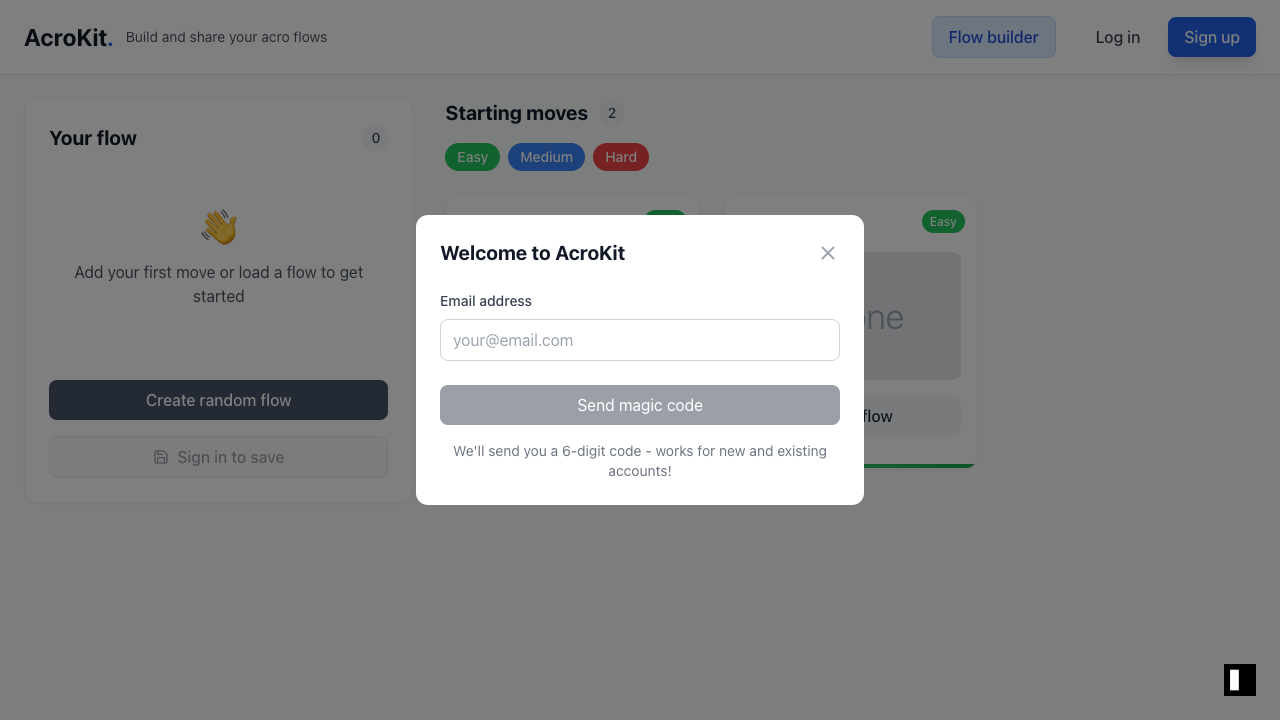
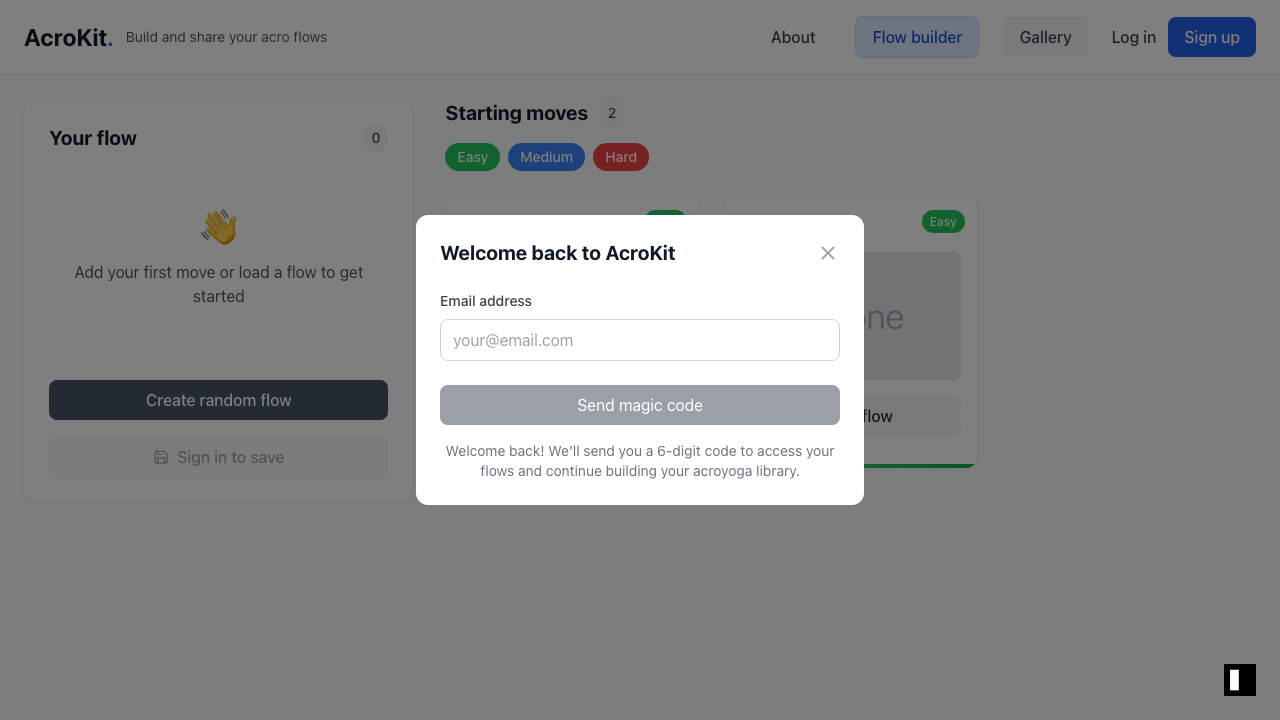
Update login modal copy to be more welcoming and informative (#14)
* Update login modal copy to be more welcoming and informative

- Changed header from "Welcome to AcroKit" to "Welcome back to AcroKit"
- Added benefits copy highlighting flow saving and personal library building
- Addresses user feedback about making login vs signup distinction clearer

Fixes #10

🤖 Generated with [Claude Code](https://claude.ai/code)

* Implement two variants for login modal based on button clicked

- Add mode tracking ('login'  < /dev/null |  'signup') to Header component
- Update LoginModal to accept mode prop and show different copy
- Login mode: "Welcome back to AcroKit" with returning user messaging
- Signup mode: "Join AcroKit" with benefits-focused copy for new users
- Each button now triggers appropriate modal variant

Addresses review feedback requesting separate messaging for login vs signup flows.

🤖 Generated with [Claude Code](https://claude.ai/code)

* Add screenshots of login and signup modal variants

- login-modal.png: Shows "Welcome back to AcroKit" copy for returning users
- signup-modal.png: Shows "Join AcroKit" copy with benefits messaging
- Updated screenshot.js script with new modal configurations

These screenshots demonstrate the two-variant modal system implemented
to address PR review feedback for distinct login vs signup messaging.

🤖 Generated with [Claude Code](https://claude.ai/code)

---------

diff --git a/src/components/Header.tsx b/src/components/Header.tsx
@@ -10,6 +10,7 @@ interface HeaderProps {
 export function Header({ currentPage, onPageChange }: HeaderProps) {
   const { user, signOut } = useAuth()
   const [showLoginModal, setShowLoginModal] = useState(false)
+  const [loginMode, setLoginMode] = useState<'login' | 'signup'>('login')
   const [showUserMenu, setShowUserMenu] = useState(false)
   const mobileMenuRef = useRef<HTMLDivElement>(null)
   const desktopMenuRef = useRef<HTMLDivElement>(null)
@@ -33,6 +34,11 @@ export function Header({ currentPage, onPageChange }: HeaderProps) {
       }
     }
   }, [showUserMenu])
+
+  const openLoginModal = (mode: 'login' | 'signup') => {
+    setLoginMode(mode)
+    setShowLoginModal(true)
+  }
 
   return (
     <>
@@ -79,13 +85,13 @@ export function Header({ currentPage, onPageChange }: HeaderProps) {
             ) : (
               <div className="flex items-center gap-3">
                 <button
-                  onClick={() => setShowLoginModal(true)}
+                  onClick={() => openLoginModal('login')}
                   className="text-gray-700 hover:text-gray-900 font-medium text-sm"
                 >
                   Log in
                 </button>
                 <button
-                  onClick={() => setShowLoginModal(true)}
+                  onClick={() => openLoginModal('signup')}
                   className="bg-blue-600 text-white px-3 py-2 rounded-lg hover:bg-blue-700 transition-colors font-medium text-sm"
                 >
                   Sign up
@@ -226,13 +232,13 @@ export function Header({ currentPage, onPageChange }: HeaderProps) {
               ) : (
                 <div className="flex items-center gap-3">
                   <button
-                    onClick={() => setShowLoginModal(true)}
+                    onClick={() => openLoginModal('login')}
                     className="text-gray-700 hover:text-gray-900 font-medium"
                   >
                     Log in
                   </button>
                   <button
-                    onClick={() => setShowLoginModal(true)}
+                    onClick={() => openLoginModal('signup')}
                     className="bg-blue-600 text-white px-4 py-2 rounded-lg hover:bg-blue-700 transition-colors font-medium"
                   >
                     Sign up
@@ -244,9 +250,7 @@ export function Header({ currentPage, onPageChange }: HeaderProps) {
         </div>
       </header>
       
-      {showLoginModal && (
-        <LoginModal isOpen={showLoginModal} onClose={() => setShowLoginModal(false)} />
-      )}
+      <LoginModal isOpen={showLoginModal} mode={loginMode} onClose={() => setShowLoginModal(false)} />
     </>
   )
 }

diff --git a/src/components/LoginModal.tsx b/src/components/LoginModal.tsx
@@ -3,10 +3,11 @@ import { useAuth } from './AuthProvider'
 
 interface LoginModalProps {
   isOpen: boolean
+  mode: 'login' | 'signup'
   onClose: () => void
 }
 
-export function LoginModal({ isOpen, onClose }: LoginModalProps) {
+export function LoginModal({ isOpen, mode, onClose }: LoginModalProps) {
   const [email, setEmail] = useState('')
   const [code, setCode] = useState('')
   const [isLoading, setIsLoading] = useState(false)
@@ -64,7 +65,7 @@ export function LoginModal({ isOpen, onClose }: LoginModalProps) {
       <div className="bg-white rounded-xl p-6 w-full max-w-md mx-4">
         <div className="flex items-center justify-between mb-6">
           <h2 className="text-xl font-bold text-gray-900">
-            {isCodeSent ? 'Check your email' : 'Welcome to AcroKit'}
+            {isCodeSent ? 'Check your email' : (mode === 'login' ? 'Welcome back to AcroKit' : 'Join AcroKit')}
           </h2>
           <button
             onClick={handleClose}
@@ -157,7 +158,10 @@ export function LoginModal({ isOpen, onClose }: LoginModalProps) {
             </button>
 
             <p className="text-sm text-gray-500 mt-4 text-center">
-              We'll send you a 6-digit code - works for new and existing accounts!
+              {mode === 'login' 
+                ? "Welcome back! We'll send you a 6-digit code to access your flows and continue building your acroyoga library."
+                : "Save your flows, access them anywhere, and build your personal acroyoga library. We'll send you a 6-digit code to get started!"
+              }
             </p>
           </form>
         )}

diff --git a/scripts/screenshot.js b/scripts/screenshot.js
@@ -53,13 +53,23 @@ const SCREEN_CONFIG = {
   
   // Modals
   'login-modal': {
-    description: 'Login/signup modal',
+    description: 'Login modal with welcome back copy',
     url: 'http://localhost:3000',
     actions: [
-      { type: 'click', selector: 'button:has-text("Log in"):visible' }
+      { type: 'click', selector: 'nav button:has-text("Log in")' }
     ],
-    waitFor: 'h2:has-text("Welcome to AcroKit")',
+    waitFor: 'h2:has-text("Welcome back to AcroKit")',
     filename: 'login-modal'
+  },
+  
+  'signup-modal': {
+    description: 'Signup modal with join benefits copy',
+    url: 'http://localhost:3000',
+    actions: [
+      { type: 'click', selector: 'nav button:has-text("Sign up")' }
+    ],
+    waitFor: 'h2:has-text("Join AcroKit")',
+    filename: 'signup-modal'
   },
   
   'login-modal-code-sent': {
